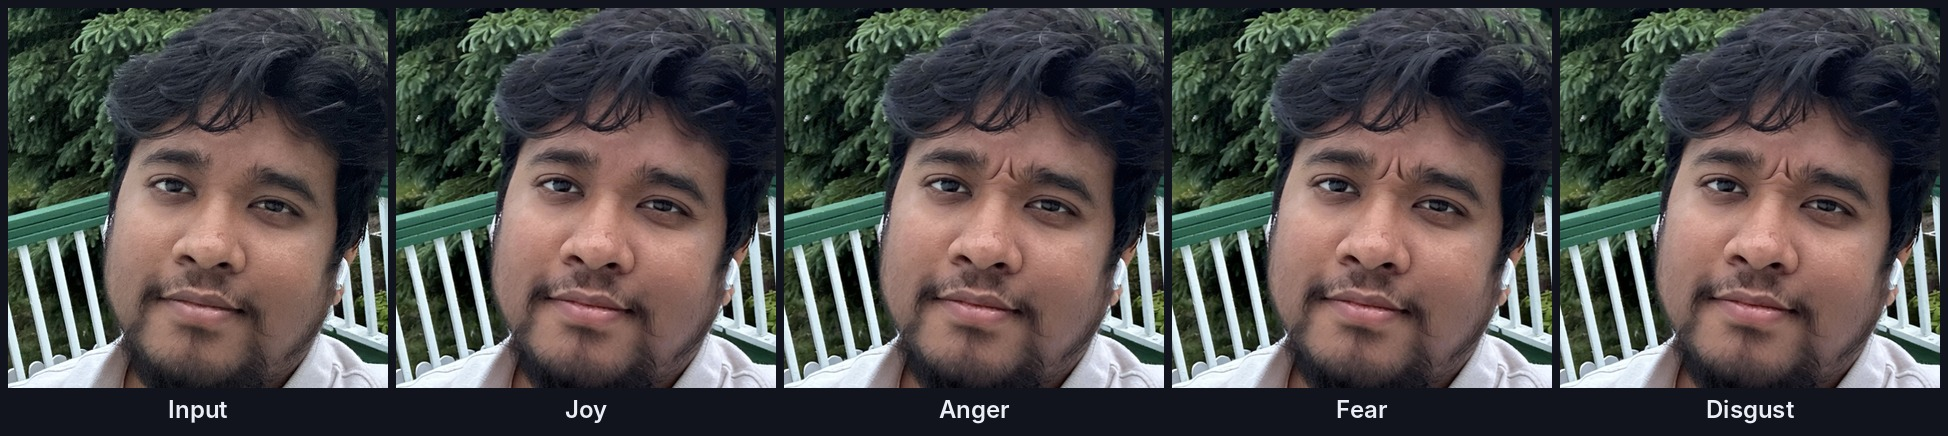
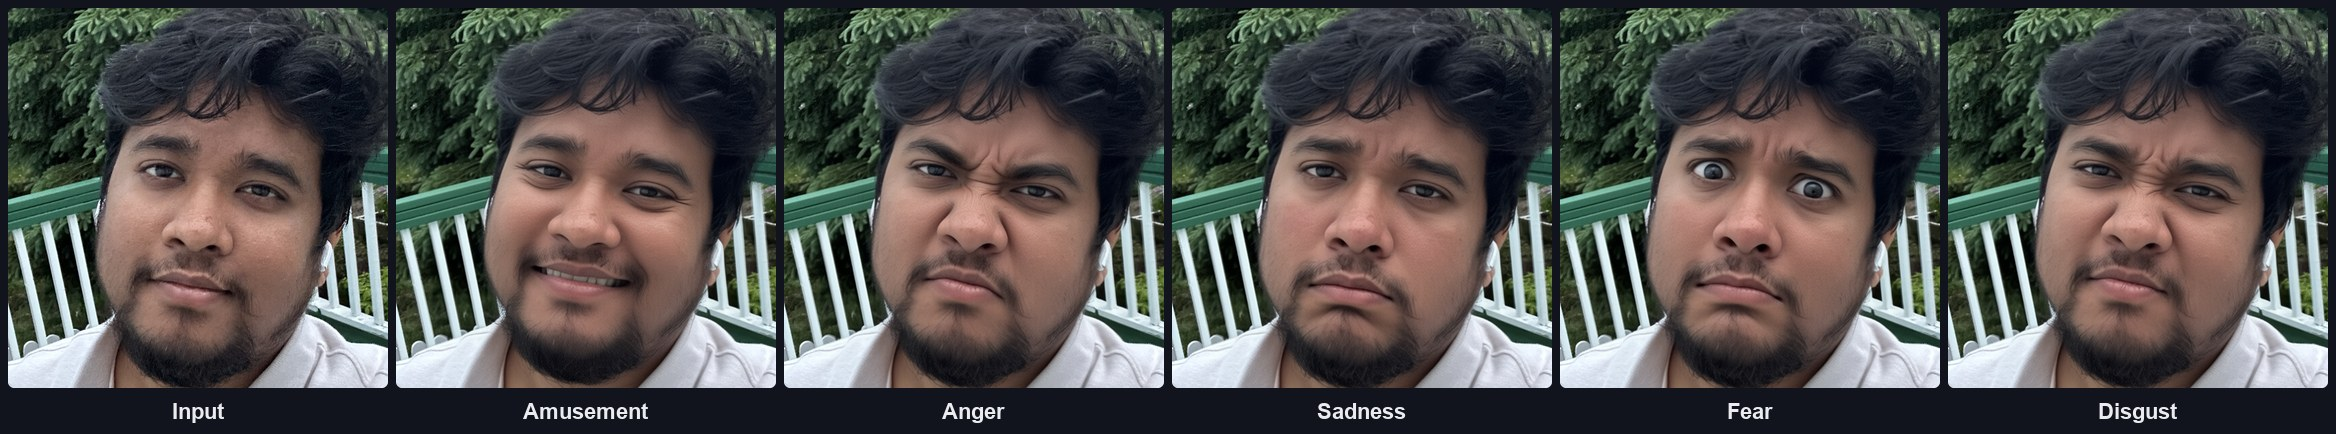
Use the Qwen-Image-Edit-2511 photo renders in the README and social preview
The photo example and the social preview's photo row now show the
natural 40-step renders with the face pasted back: amusement, anger,
sadness, fear and disgust.

diff --git a/README.md b/README.md
@@ -66,10 +66,10 @@ Each sheet is one input image and eight of its expressions, generated at 1024×1
 
 Every run can save a labelled sprite sheet like these next to the individual images.
 
-Photos work too. On a real face AutoExpress keeps the change deliberately small, so it still looks like the same person. This set was made from a selfie with the [instruction edit mode](#instruction-edit-mode-comfyui) at the photo default [expression intensity](#expression-intensity) of 0.5:
+Photos work too. On a real face AutoExpress keeps the change natural, so it still looks like the same person. This set was made from a selfie with the [instruction edit mode](#instruction-edit-mode-comfyui) (Qwen-Image-Edit-2511, 40 steps) at the photo default [expression intensity](#expression-intensity) of 0.5, with only the edited face pasted back onto the original photo:
 
 <p align="center">
-  <a href=".github/readme/sheet_photo.jpg"><img src=".github/readme/sheet_photo.jpg" alt="A selfie and its subtle joy, anger, fear and disgust expressions" width="100%"></a>
+  <a href=".github/readme/sheet_photo.jpg"><img src=".github/readme/sheet_photo.jpg" alt="A selfie and its amusement, anger, sadness, fear and disgust expressions" width="100%"></a>
 </p>
 
 ---
